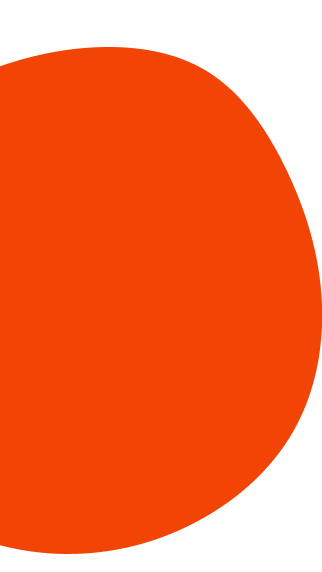
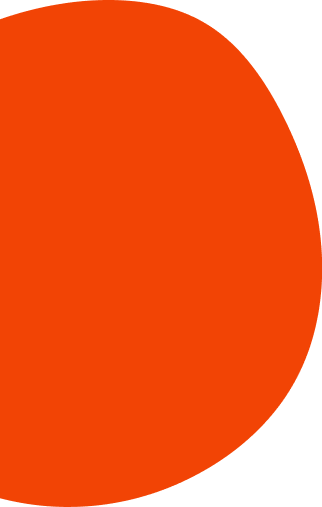
Styles: (Contact): Almost finish

diff --git a/src/components/Containers/Contact/styles.module.css b/src/components/Containers/Contact/styles.module.css
@@ -1,0 +1,146 @@
+.container{
+ margin: 100px 0 0 0;
+ height: 100vh;
+ width: 100%;
+ padding: 0 24px; 
+ position: relative;
+}
+
+.container:before{
+ content: "";
+ width: 200px;
+ height: 100px;
+ background: url("/assets/wave7.png");
+ background-position: left center;
+ background-repeat: no-repeat;
+ background-size: contain;
+ position: absolute;
+ left: 0;
+ top: -100px;
+}
+
+.container:after{
+ content: "";
+ width: 200px;
+ height: 100px;
+ background: url("/assets/wave8.png");
+ background-position: right center;
+ background-repeat: no-repeat;
+ background-size: contain;
+ position: absolute;
+ right: 0;
+ bottom: -100px;
+}
+
+.hidden{
+ display: none;
+}
+
+.form{
+ width: 100%;
+ height: auto;
+ display: flex;
+ flex-direction: column;
+ margin: 48px auto 0 auto;
+ max-width: 600px;
+}
+
+.form input{
+ border: 1px solid var(--colors-gray);
+ color: var(--colors-black);
+ font-size: var(--size-20);
+ padding: 10px 20px;
+ border-radius: 24px;
+ z-index: 2;
+}
+
+.form textarea{
+ border: 1px solid var(--colors-gray);
+ color: var(--colors-black);
+ font-size: var(--size-20);
+ border-radius: 24px;
+ resize: none;
+ margin: 16px 0 0 0;
+ width: 100%;
+ height: 208px !important;
+ padding: 10px 20px;
+ z-index: 2;
+}
+
+.form input:focus{
+ outline-color: var(--colors-blue);
+}
+
+.form textarea:focus{
+ outline-color: var(--colors-blue);
+}
+
+.form input:not(:first-of-type){
+ margin: 16px 0 0 0;
+}
+
+.btnSubmit{
+ width: 208px;
+ height: 50px;
+ border-radius: 24px;
+ display: flex;
+ align-items: center;
+ justify-content: center;
+ background: var(--colors-blue-light);
+ border: none;
+ font-size: var(--size-20);
+ color: var(--colors-white);
+ margin: 48px auto 0 auto;
+ font-family: var(--font-primary);
+ letter-spacing: 1px;
+ transition: 0.3s;
+ z-index: 2;
+}
+
+.btnSubmit:hover{
+ background: var(--colors-blue);
+}
+
+@media screen and (min-width: 768px){
+ .container{
+  height: 80vh;
+ }
+
+ .container:before{
+  content: "";
+  width: 300px;
+  height: 200px;
+  left: 0;
+  top: -100px;
+ }
+ 
+ .container:after{
+  content: "";
+  width: 300px;
+  height: 200px;
+  right: 0;
+  bottom: -100px;
+ }
+}
+
+@media screen and (min-width: 1440px){
+ .container{
+  height: 100vh;
+ }
+
+ .container:before{
+  content: "";
+  width: 600px;
+  height: 400px;
+  left: 0;
+  top: -150px;
+ }
+ 
+ .container:after{
+  content: "";
+  width: 600px;
+  height: 300px;
+  right: 0;
+  bottom: -350px;
+ }
+}

diff --git a/src/components/Containers/Contact/index.tsx b/src/components/Containers/Contact/index.tsx
@@ -1,3 +1,22 @@
+import { Title } from '@/components/Blocks/Title'
+import styles from './styles.module.css'
+
 export const Contact = () => {
- return (<div>Contact</div>)
+
+ return (
+  <section className={styles.container}>
+   <Title title='Contato' subtitle='Contribua para um futuro promissor! Preencha o formulário e faça a diferença!' />
+   <form id="form" action="https://api.staticforms.xyz/submit" method="post" className={styles.form}>
+    <input required type="text" name="name" placeholder="Nome" maxLength={50} />
+    <input required type="text" name="email" placeholder="Email" maxLength={50} />
+    <input required type="text" name="subject" placeholder='Assunto' maxLength={50} />
+    <textarea required name="message" placeholder='Mensagem' maxLength={250}></textarea>
+    <input type="text" name="honeypot" className={styles.hidden} />
+    <input type="hidden" name="accessKey" value={`${process.env.NEXT_PUBLIC_MAIL_KEY}`} className={styles.hidden} />
+    <input type="hidden" name="subject" value="Novo contato - Site Associação Recriar" className={styles.hidden} />
+    <input type="hidden" name="redirectTo" value="https://projeto-recriar.vercel.app/" className={styles.hidden} />
+    <button type='submit' className={styles.btnSubmit}>Enviar</button>
+   </form>
+  </section>
+ )
 }

diff --git a/src/components/Blocks/socialMedia/index.tsx b/src/components/Blocks/socialMedia/index.tsx
@@ -14,7 +14,7 @@ export const SocialMedia = ({ router, routerName, label }: socialMediaProps) => 
    <a href={router} aria-label={label} className={styles.btnExplore}>{routerName}</a>
    <a target="_blank" href="https://www.instagram.com/recriarcruzeiro/" aria-label='Link para Instagram' className={styles.linkInstagram}><FaInstagram /></a>
    <a target="_blank" href="https://www.facebook.com/RecriarBetim" aria-label='Link para Facebook' className={styles.linkFacebook}><FaFacebookF /></a>
-   <a target="_blank" href="https://l.instagram.com/?u=https%3A%2F%2Fwa.me%2F553135313298&e=AT0UiDRlajBWRJ-3_Kan1unHat6_jJqK69DgNk6erVoPhdc-IWryXQbxPaxD_nePelbPL8YuT13QAnis44FuB8Jm4BE3d7hqVSCxxWA" aria-label='Link para WhatsApp' className={styles.linkWhatsApp}><FaWhatsapp /></a>
+   <a target="_blank" href="https://api.whatsapp.com/send/?phone=553135313298&text&type=phone_number&app_absent=0" aria-label='Link para WhatsApp' className={styles.linkWhatsApp}><FaWhatsapp /></a>
   </div>
  )
 }

diff --git a/src/pages/index.tsx b/src/pages/index.tsx
@@ -1,9 +1,11 @@
 import { About } from "@/components/Containers/About";
 import { Banner } from "@/components/Containers/Banner";
+import { Contact } from "@/components/Containers/Contact";
 import { ContainerPrimary } from "@/components/Containers/ContainerPrimary";
 import { Events } from "@/components/Containers/Events";
 import { Header } from "@/components/Containers/Header";
 import { Main } from "@/components/Containers/Main";
+import { Maps } from "@/components/Containers/Maps";
 import { HeadContent } from "@/components/Elements/HeadContent";
 
 export default function Home() {
@@ -16,6 +18,8 @@ export default function Home() {
         <About />
         <Banner />
         <Events />
+        <Contact />
+        <Maps />
       </ContainerPrimary>
     </>
   )

diff --git a/src/components/Blocks/Title/styles.module.css b/src/components/Blocks/Title/styles.module.css
@@ -5,6 +5,7 @@
  flex-direction: column;
  align-items: center;
  justify-content: center;
+ z-index: 2;
 }
 
 .container h2{
@@ -28,7 +29,7 @@
 }
 
 .container p{
- max-width: 80%;
+ max-width: 300px;
  text-align: center;
  margin: 10px auto 0 auto;
  font-size: var(--size-18);

diff --git a/src/components/Containers/Events/styles.module.css b/src/components/Containers/Events/styles.module.css
@@ -41,7 +41,7 @@
  height: auto;
  display: flex;
  flex-direction: column;
- align-items: start;
+ align-items: flex-start;
  justify-content: flex-start;
  border: 1px solid var(--colors-gray);
  margin: 48px 0 0 0;

diff --git a/src/components/Containers/Maps/index.tsx b/src/components/Containers/Maps/index.tsx
@@ -1,3 +1,9 @@
+import styles from "./styles.module.css"
+
 export const Maps = () => {
- return (<div>Maps</div>)
+ return (
+  <section className={styles.container}>
+
+  </section>
+ )
 }

diff --git a/src/components/Elements/ButtonMore/styles.module.css b/src/components/Elements/ButtonMore/styles.module.css
@@ -1,6 +1,6 @@
 .buttonMore{
  margin: 48px 0;
- padding: 12px 48px;
+ padding: 12px 36px;
  background: var(--colors-green);
  font-size: var(--size-16);
  text-align: center;

diff --git a/src/components/Containers/Maps/styles.module.css b/src/components/Containers/Maps/styles.module.css
@@ -1,0 +1,4 @@
+.container{
+ width: 100%;
+ height: 100vh;
+}
